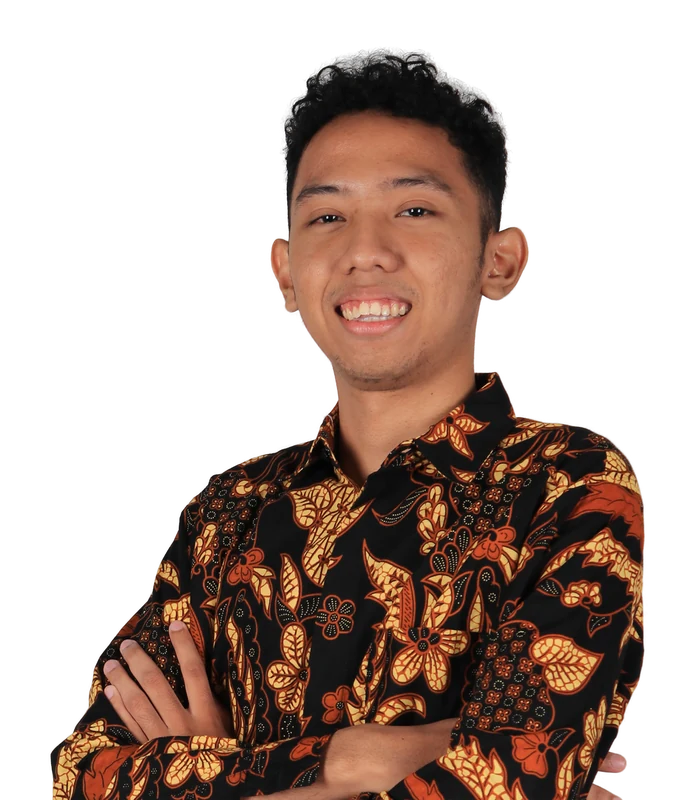
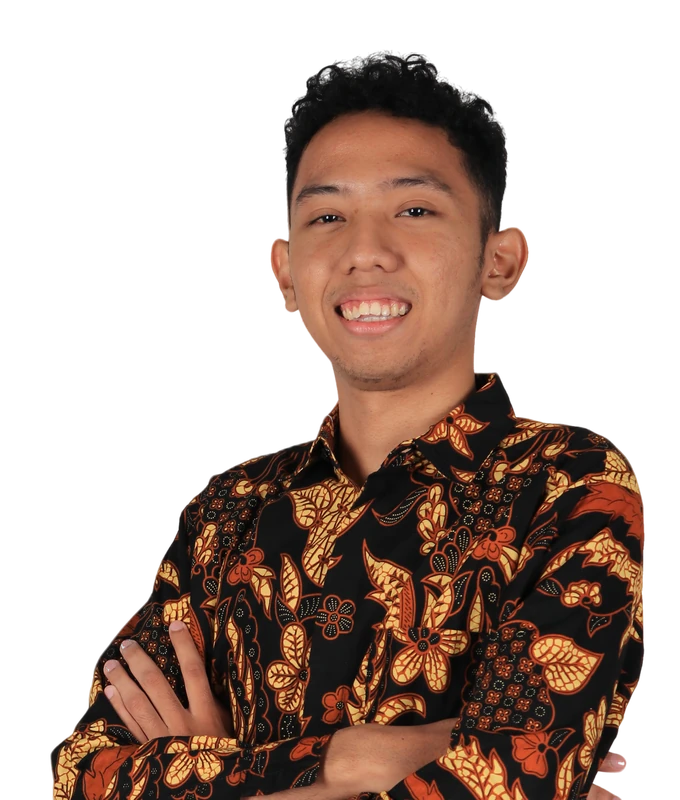
Clean profile cutout edges (remove leftover background halo around hair)

diff --git a/index.html b/index.html
@@ -8,7 +8,7 @@
   <link rel="preconnect" href="https://fonts.googleapis.com">
   <link rel="preconnect" href="https://fonts.gstatic.com" crossorigin>
   <link href="https://fonts.googleapis.com/css2?family=Poppins:wght@400;500;600;700&display=swap" rel="stylesheet">
-  <link rel="stylesheet" href="style.css?v=3">
+  <link rel="stylesheet" href="style.css?v=4">
   <script>
     try { var t = localStorage.getItem('theme'); if (t) document.documentElement.dataset.theme = t; } catch (e) {}
   </script>
@@ -35,7 +35,7 @@
 
   <section class="hero wrap">
     <div class="avatar" id="avatar">
-      <img src="assets/profile.webp" alt="Portrait of Muhammad Rizki Firmansyah" width="680" height="800">    </div>
+      <img src="assets/profile.webp?v=2" alt="Portrait of Muhammad Rizki Firmansyah" width="680" height="800">    </div>
     <div class="hero-text">
     <p class="eyebrow">Product Engineer &amp; Backend Developer</p>
     <h1>Muhammad Rizki<br><span class="accent">Firmansyah</span></h1>
